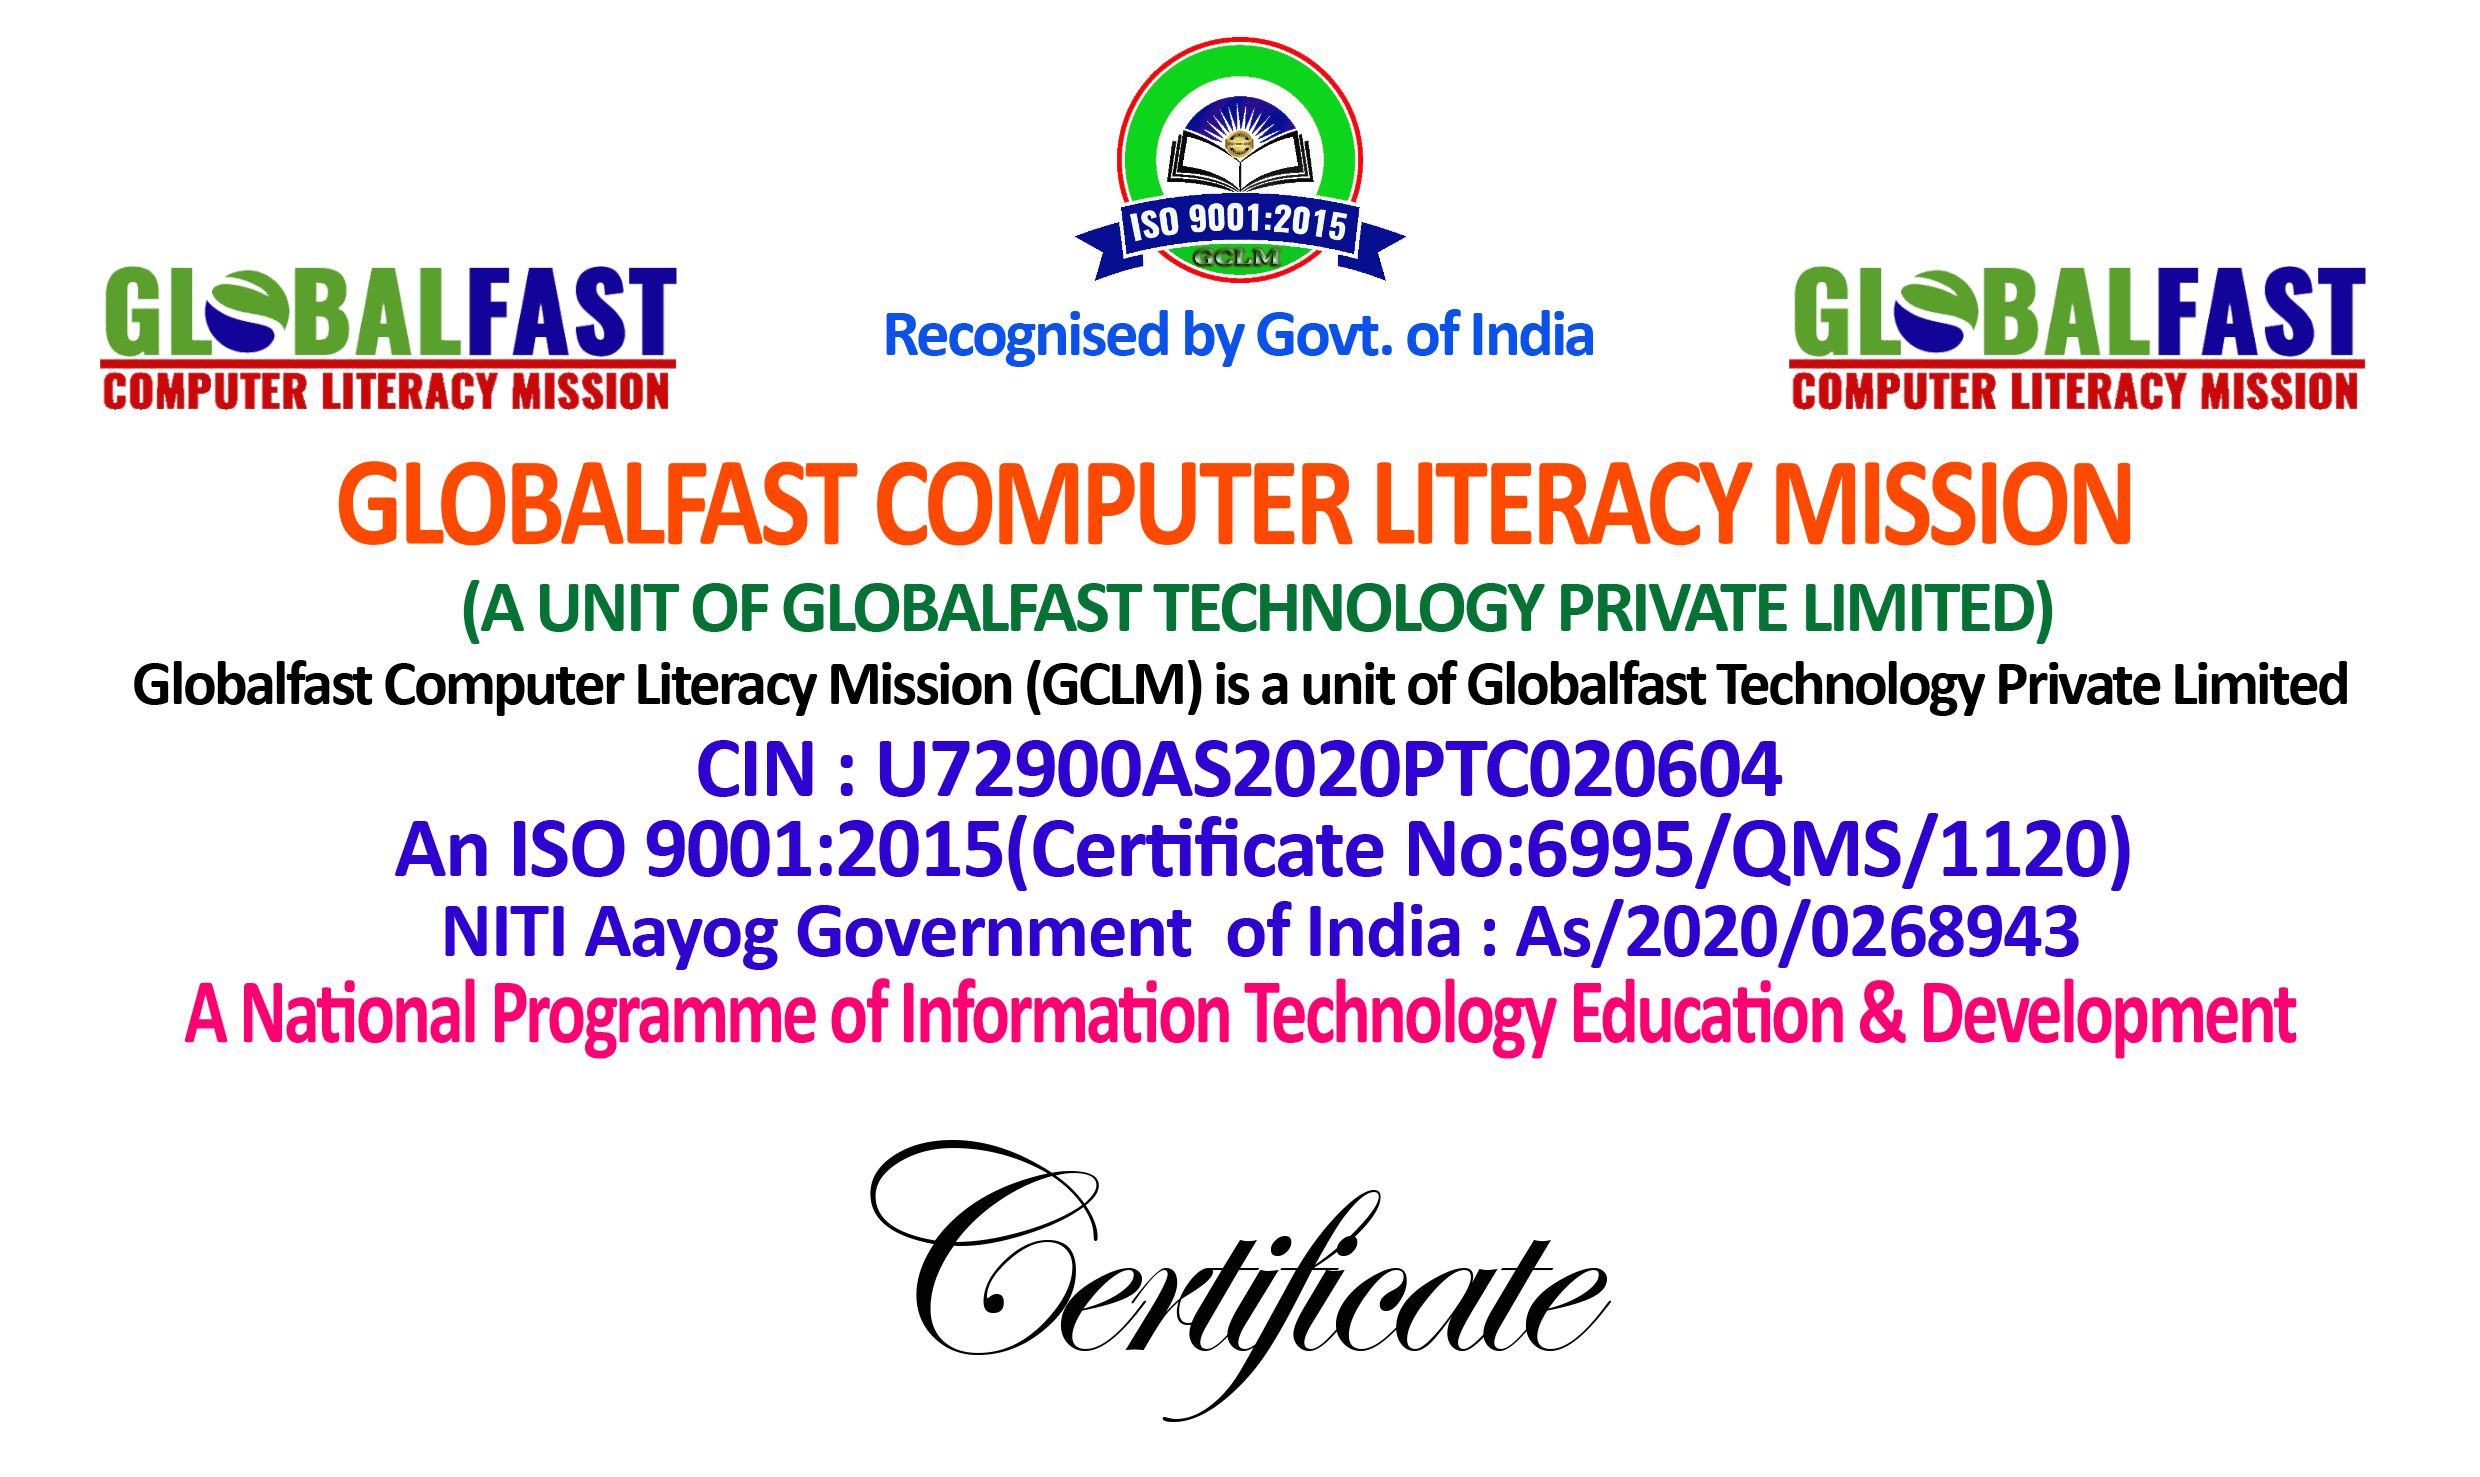
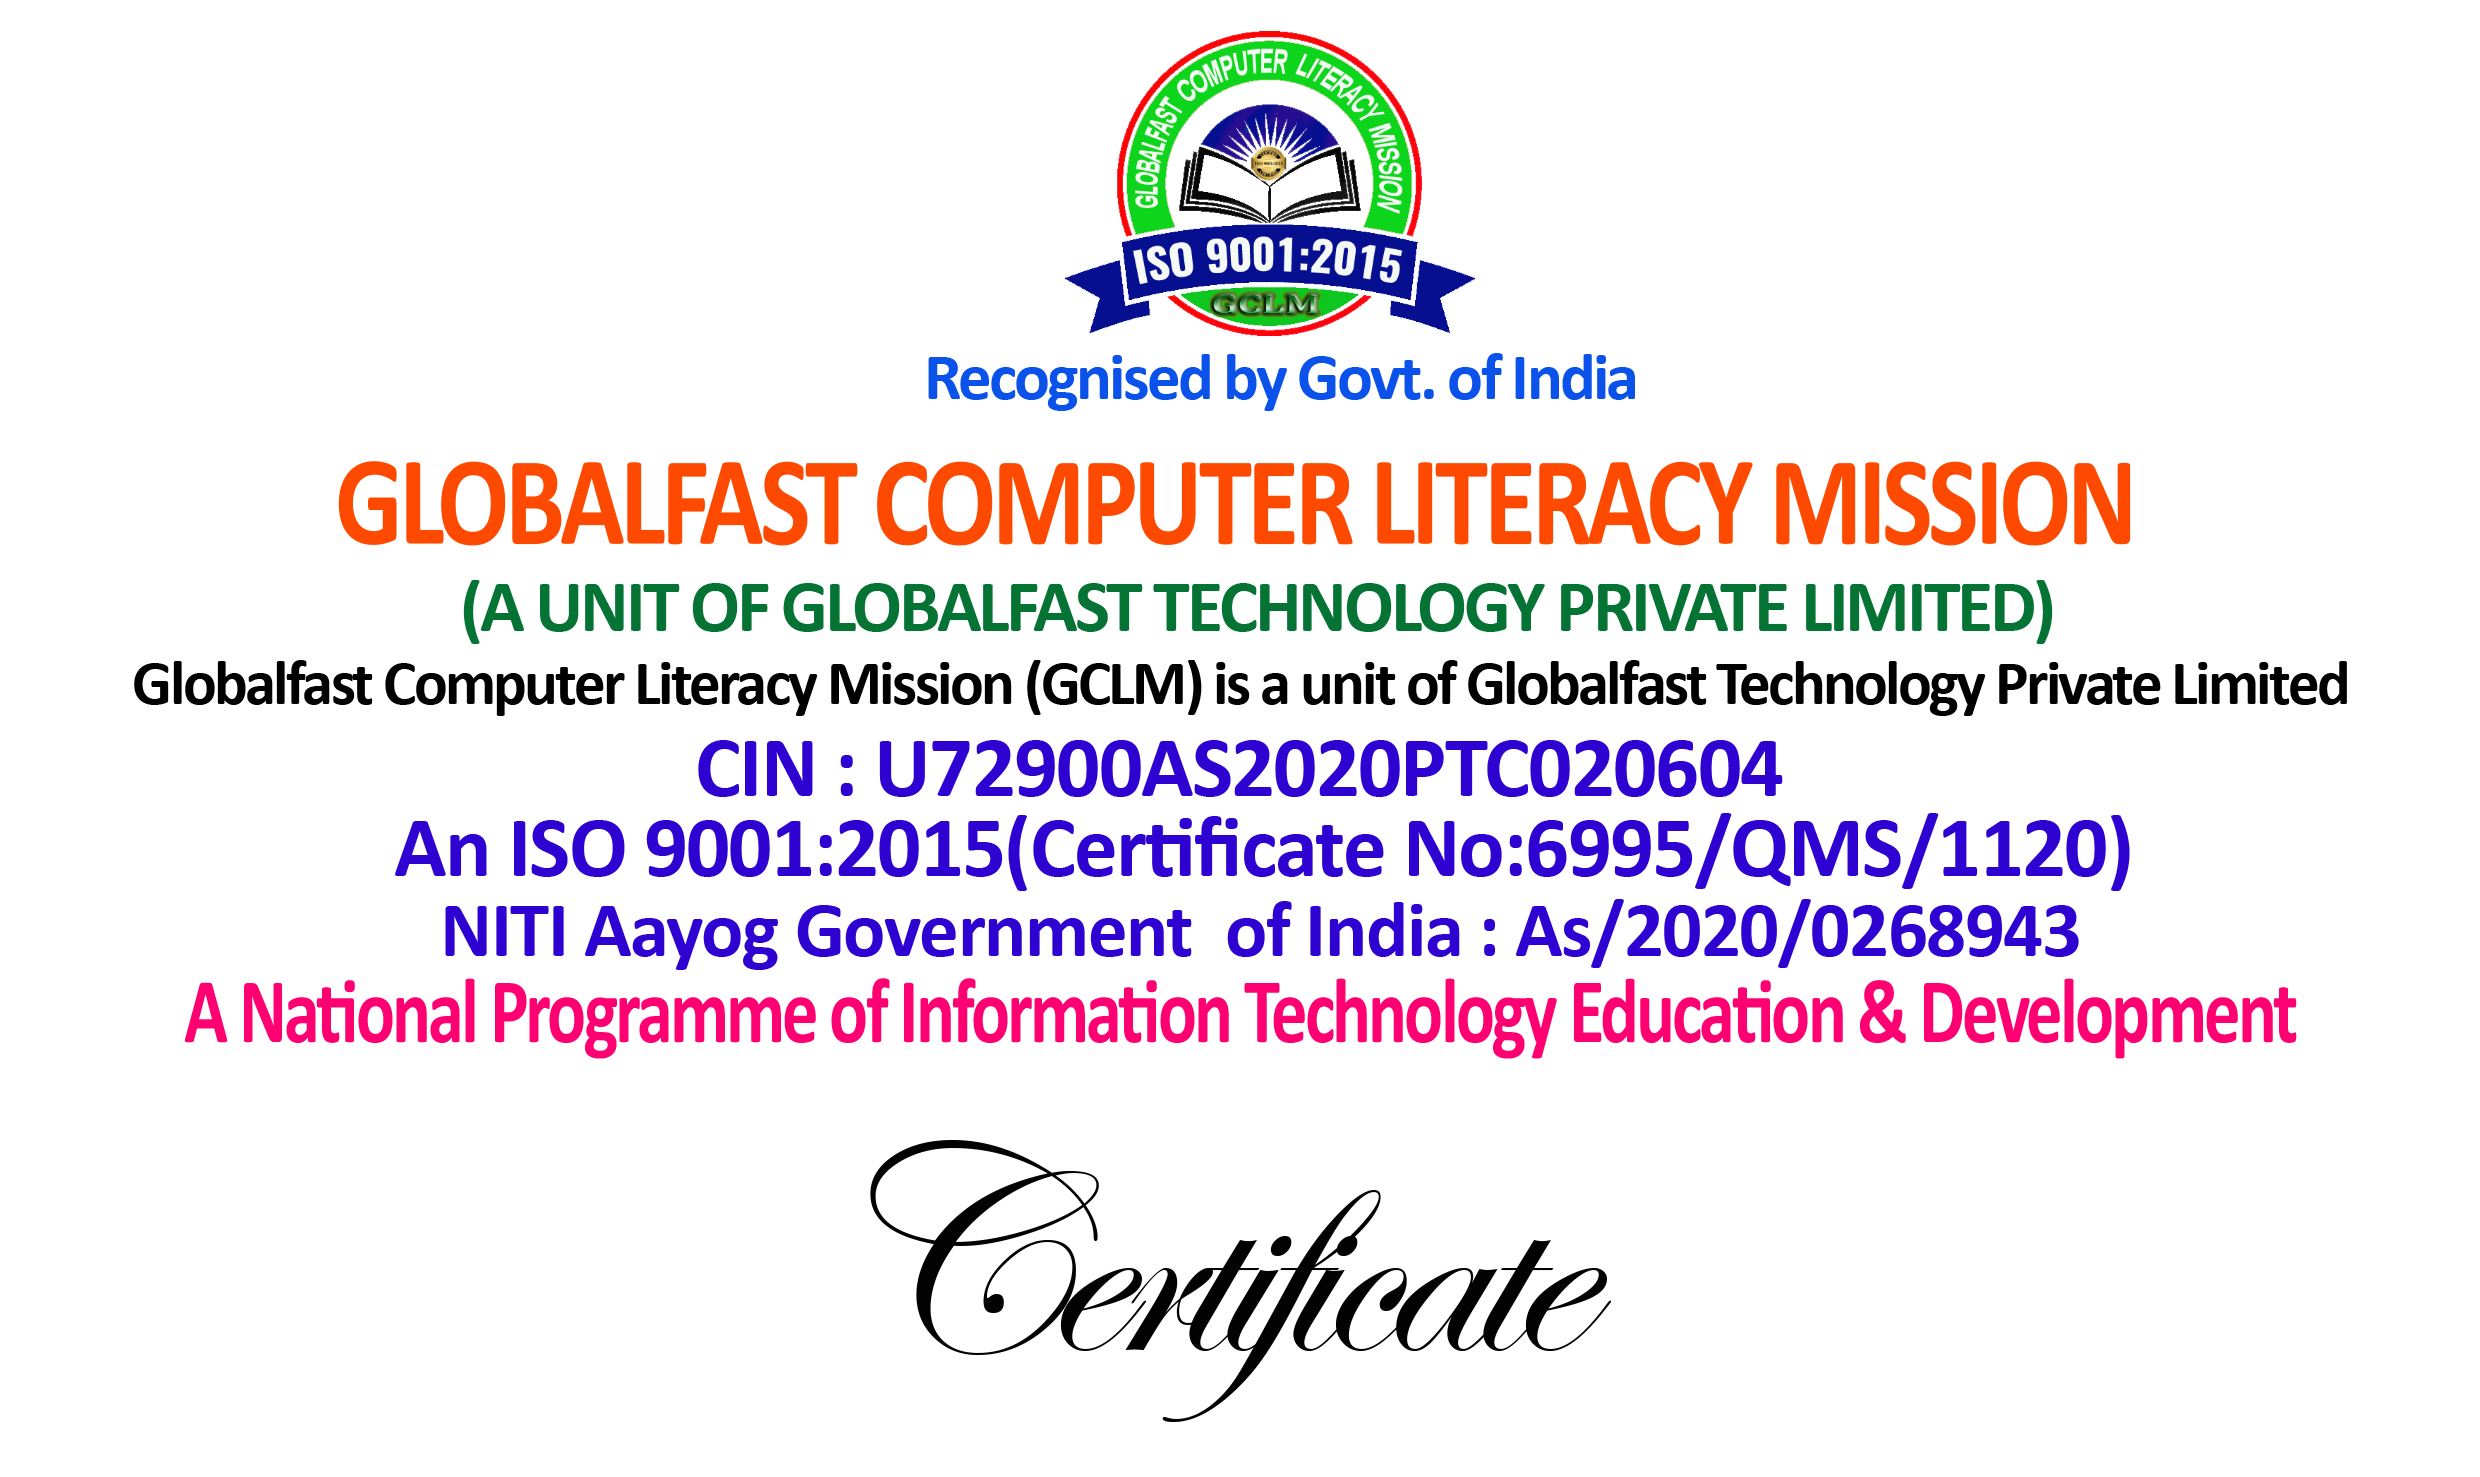
add certificate

Changed region(s): [[0.3415, 0.0, 0.6831, 0.2803], [0.7141, 0.1557, 0.9625, 0.2803], [0.031, 0.1557, 0.2794, 0.2803]]

diff --git a/resources/views/web/student/student-certificate.blade.php b/resources/views/web/student/student-certificate.blade.php
@@ -11,11 +11,13 @@
    </style>
    <body>
       <div>
+         <div style="border: 4px solid; border-image: linear-gradient(to right, rgb(254 74 0), rgb(241 234 22),rgb(241 234 22),rgb(254 74 0)) ;
+         border-image-slice: 1; padding:5px">
          <div style="width:100%;margin: auto; background-image:url('{{asset('web/assets/img/gclm-bg.png')}}');background-size: 5%;padding-top: 10px; overflow: auto;">
             <div style="text-align: center">   
                <img src="{{asset('web/assets/img/gclm-certificate.png')}}" style="width: 100%;">
             </div>
-            <div style="margin: 0px 30px 0px 30px;">
+            <div style="margin: 0px 25px 0px 25px;">
               <div style="width: 100%; overflow: auto;">
                   <h2 style="font-weight: 500;width: 23%; float:left; font-family:lucida calligraphy;font-size: 21px;"><strong>Presented to </strong> </h2>
                   <h3 style="font-weight: 500;width: 77%; float:right;border-bottom:1px solid;"><span style="padding-left: 20px;">{{$student_details->name}}</span></h3>
@@ -55,19 +57,23 @@
                <h2 style="font-weight: 500;width: 26%; float:left;margin-top: 0px; font-family:lucida calligraphy;font-size: 21px;"><strong style="padding-left: 10px;"> Date of Issue </strong> </h2>
                <h3 style="font-weight: 500;width: 20%; float:left;border-bottom:1px solid;margin-top: 0px;"><span style="padding-left: 20px;">{{$student_details->student->date_of_issue}}</span></h3>
             </div>
-            <div style="width: 70%; float:left;margin-top: 25px;">
-               <h4 style="font-weight: 500; "><strong ></strong></h4>
+            <div style="width: 30%; float:left;margin-top: 25px;"></div>
+            <div style="width: 40%; float:left;margin-top: 25px;">
+               <div style="text-align: center">   
+                  <img src="{{asset('web/assets/img/iso.png')}}" style="width: 20%;">
+                  <img src="{{asset('web/assets/img/uasl.png')}}" style="width: 35%;">
+               </div>
             </div>
-               <div style="width: 30%;float: right;margin-top: 25px;">
+               <div style="width: 30%;float: right;margin-top: 7px;">
                   <h2 style="font-weight: 500;font-family:lucida calligraphy;font-size: 21px;"><strong>Chairman</strong></h2>
                   <h3 style="font-weight: 500;margin-top: -16px; margin-bottom:2px;font-family:lucida calligraphy;font-size: 15px;"><strong>Board of Examination</strong></h3>
                </div>
                <div style="width: 100%; overflow: auto; padding-bottom: 12px;">
-                  <h2 style="font-weight: 500;font-size:16.1px;background-color:#50a808; padding:8px;"><strong>Grade:80% & Above"A+", 70 to 79% "A", 60 to 69% "B+", 50 to 59% "B", 40 to 49 "C"  </strong> </h2>
-                  
-               </div>
-               <img src="{{asset('web/assets/img/GCLM.png')}}" alt="watermark"  style="position: absolute;top: 50%;width: 60%;left: 20%;z-index: -1; opacity: 0.3;">
+                  <h2 style="font-weight: 500;font-size:15.7px;background-color:#50a808; padding:8px;"><strong>Grade:80% & Above"A+", 70 to 79% "A", 60 to 69% "B+", 50 to 59% "B", 40 to 49 "C"  </strong> </h2>
+                 </div>
+               <img src="{{asset('web/assets/img/watermark.png')}}" alt="watermark"  style="position: absolute;top: 42%;width: 60%;left: 22%;z-index: -1; opacity: 0.3;">
             </div>
+         </div>
          </div>
          <div style="text-align: center"><button onclick="window.print()"class="btn btn-success">Print</button></div>
       </div>

diff --git a/resources/views/web/student/student-marksheet.blade.php b/resources/views/web/student/student-marksheet.blade.php
@@ -203,7 +203,7 @@
                <div style="width: 25%;float: right;margin-top: 20px;">
                   <h4 style="font-weight: 500;"><strong>Authorised Signature</strong></h4>
                </div>
-               <img src="{{asset('web/assets/img/GCLM.png')}}" alt="watermark"  style="position: absolute;top: 55%;width: 60%;left: 20%;z-index: -1; opacity: 0.3;">
+               <img src="{{asset('web/assets/img/watermark.png')}}" alt="watermark"  style="position: absolute;top: 55%;width: 60%;left: 20%;z-index: -1; opacity: 0.3;">
             </div>
          </div>
          <div style="text-align: center"><button onclick="window.print()"class="btn btn-success">Print</button></div>

diff --git a/resources/views/web/student/student-admit.blade.php b/resources/views/web/student/student-admit.blade.php
@@ -36,7 +36,7 @@
                <div style="width: 30%;float: right;margin-top: 20px;">
                   <h4 style="font-weight: 500;"><strong>Authorised Signature</strong></h4>
                </div>
-               <img src="{{asset('web/assets/img/GCLM.png')}}" alt="watermark"  style="position: absolute;top: 30%;width: 37%;left: 33%;z-index: -1; opacity: 0.3;">
+               <img src="{{asset('web/assets/img/watermark.png')}}" alt="watermark"  style="position: absolute;top: 30%;width: 37%;left: 33%;z-index: -1; opacity: 0.3;">
             </div>
          </div>
          <div style="text-align: center"><button onclick="window.print()"class="btn btn-success">Print</button></div>

diff --git a/routes/frontend.php b/routes/frontend.php
@@ -80,9 +80,9 @@ Route::get('/Online/Certificate', function () {
 })->name('web.student.certificate-online');
 
 
-// Route::get('/Student/Certificate', function () {
-//     return view('web.student.student-certificate');
-// })->name('web.student.student-certificate');
+Route::get('/Student/Certificate', function () {
+    return view('web.student.student-certificate');
+})->name('web.student.student-certificate');
 
 // Route::get('/Student/Marksheet', function () {
 //     return view('web.student.student-marksheet');
